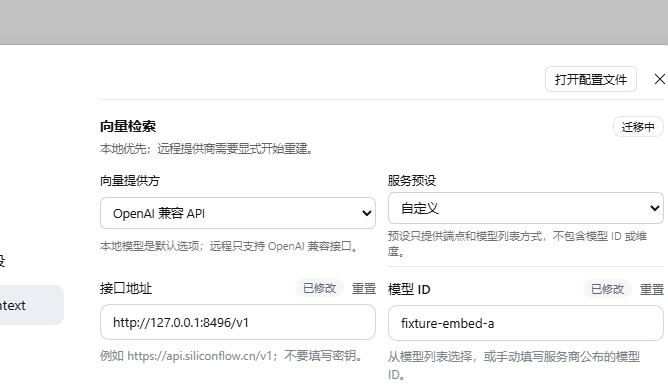
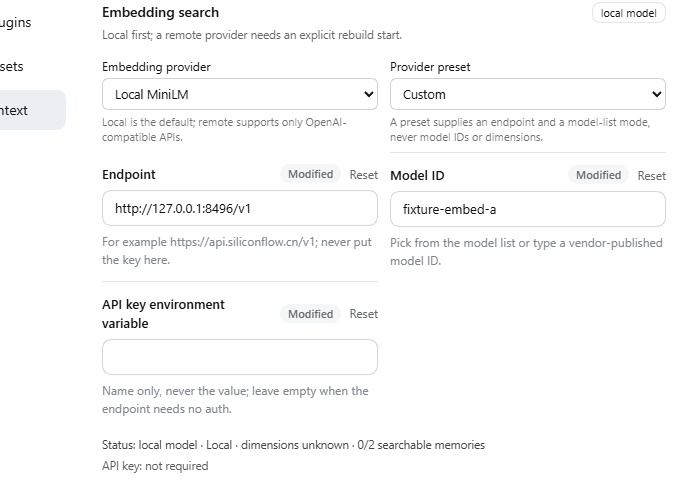
docs(settings): refresh redesigned settings screenshots

diff --git a/README.zh-CN.md b/README.zh-CN.md
@@ -219,11 +219,11 @@ Agent 工具（挂载时注册；`registerTools: false` 可关）：
 
 - **「设置 → Magic Context」顶层设置页**：五个分区、四项摘要、跳转行、高级折叠，以及宿主底栏上方的纯文本状态条；上文 volatile 配置项的可视化编辑，保存即生效（见“配置”一节）。旧「插件」页卡片已移除；宿主若没有 `settings.section` 槽位，将不再有配置入口。
 
-  ![DSH 设置页顶层的 Magic Context 页面——四项摘要、五分区跳转行与两列常规分区](https://raw.githubusercontent.com/elvisw/dsh-plugin-magic-context/main/docs/img/settings-page-v2-top.png)
+  ![DSH 设置页顶层的 Magic Context 页面——四项摘要、五分区跳转行与两列常规分区](https://raw.githubusercontent.com/elvisw/dsh-plugin-magic-context/main/docs/img/settings-page-v2-top.zh.png)
 
-  ![Magic Context 设置页下半部——向量检索动作、迁移状态与维护诊断](https://raw.githubusercontent.com/elvisw/dsh-plugin-magic-context/main/docs/img/settings-page-v2-bottom.png)
+  ![Magic Context 设置页下半部——维护与诊断、宿主底栏状态与保存按钮](https://raw.githubusercontent.com/elvisw/dsh-plugin-magic-context/main/docs/img/settings-page-v2-bottom.zh.png)
 
-  ![向量检索分区——向量提供方/服务预设、接口地址、认证头、模型 ID、API Key 环境变量、探测维度、超时与批大小，以及加载模型/测试连接/开始重建/暂停/继续/回滚到本地](https://raw.githubusercontent.com/elvisw/dsh-plugin-magic-context/main/docs/img/settings-page-v2-embedding.png)
+  ![向量检索分区——向量提供方、服务预设、接口地址、模型 ID、API Key 环境变量与当前本地/远程状态](https://raw.githubusercontent.com/elvisw/dsh-plugin-magic-context/main/docs/img/settings-page-v2-embedding.zh.png)
 
 - **`shell.overlay` 遥测徽标 + 胶囊面板**：收起态保留实时压力、token 对、Historian 状态与回收队列
   （`H` / `Q<n>`）；composer 变窄时切换成图标宽度变体。面板里是：

diff --git a/README.md b/README.md
@@ -289,9 +289,9 @@ Both UI capabilities ride the same browser half (`src/client/index.js`, copied v
 
   ![Magic Context page in DSH Settings — four-metric summary, five section jump row, and the two-column General section](https://raw.githubusercontent.com/elvisw/dsh-plugin-magic-context/main/docs/img/settings-page-v2-top.png)
 
-  ![Lower part of the Magic Context Settings page — vector actions, migration status and Maintenance and diagnostics](https://raw.githubusercontent.com/elvisw/dsh-plugin-magic-context/main/docs/img/settings-page-v2-bottom.png)
+  ![Lower part of the Magic Context Settings page — Maintenance and diagnostics, the host footer status, and the Save button](https://raw.githubusercontent.com/elvisw/dsh-plugin-magic-context/main/docs/img/settings-page-v2-bottom.png)
 
-  ![Vector search section — provider/preset, endpoint, auth header, model ID, API-key environment variable, probed dimensions, timeouts and batch size, with Load models / Probe / Start rebuild / Pause / Resume / Roll back](https://raw.githubusercontent.com/elvisw/dsh-plugin-magic-context/main/docs/img/settings-page-v2-embedding.png)
+  ![Vector search section — provider, provider preset, endpoint, model ID, API-key environment variable, and the current local/remote status](https://raw.githubusercontent.com/elvisw/dsh-plugin-magic-context/main/docs/img/settings-page-v2-embedding.png)
 
 - **`shell.overlay` telemetry badge + capsule panel**: the collapsed pill keeps the live
   pressure, token pair, Historian state and reclaim queue (`H` / `Q<n>`) visible, and
